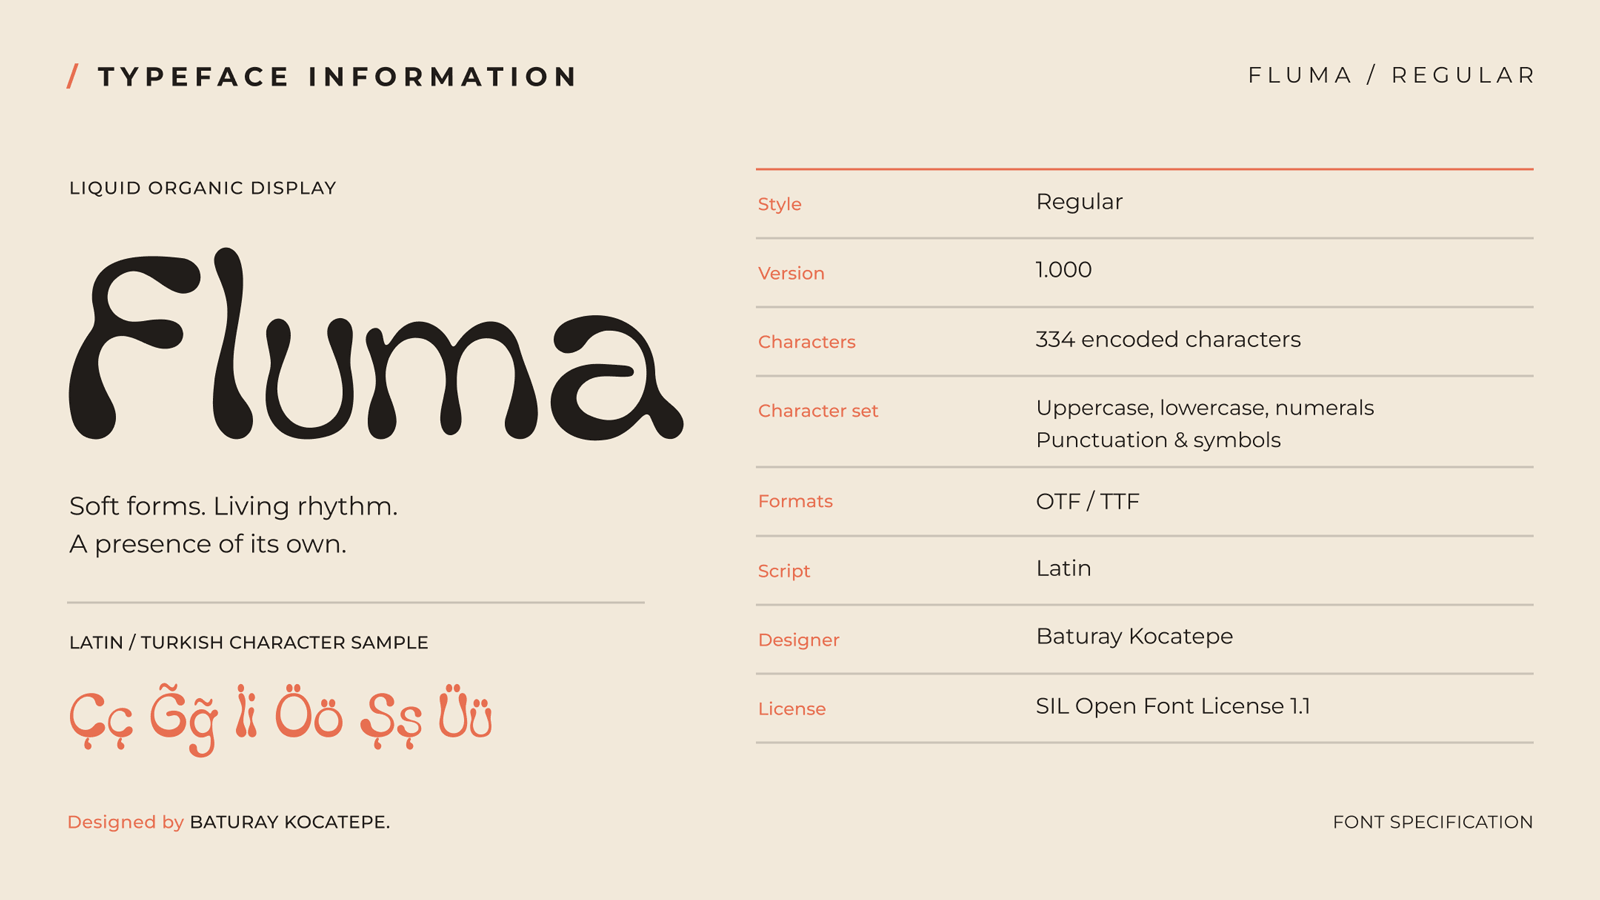
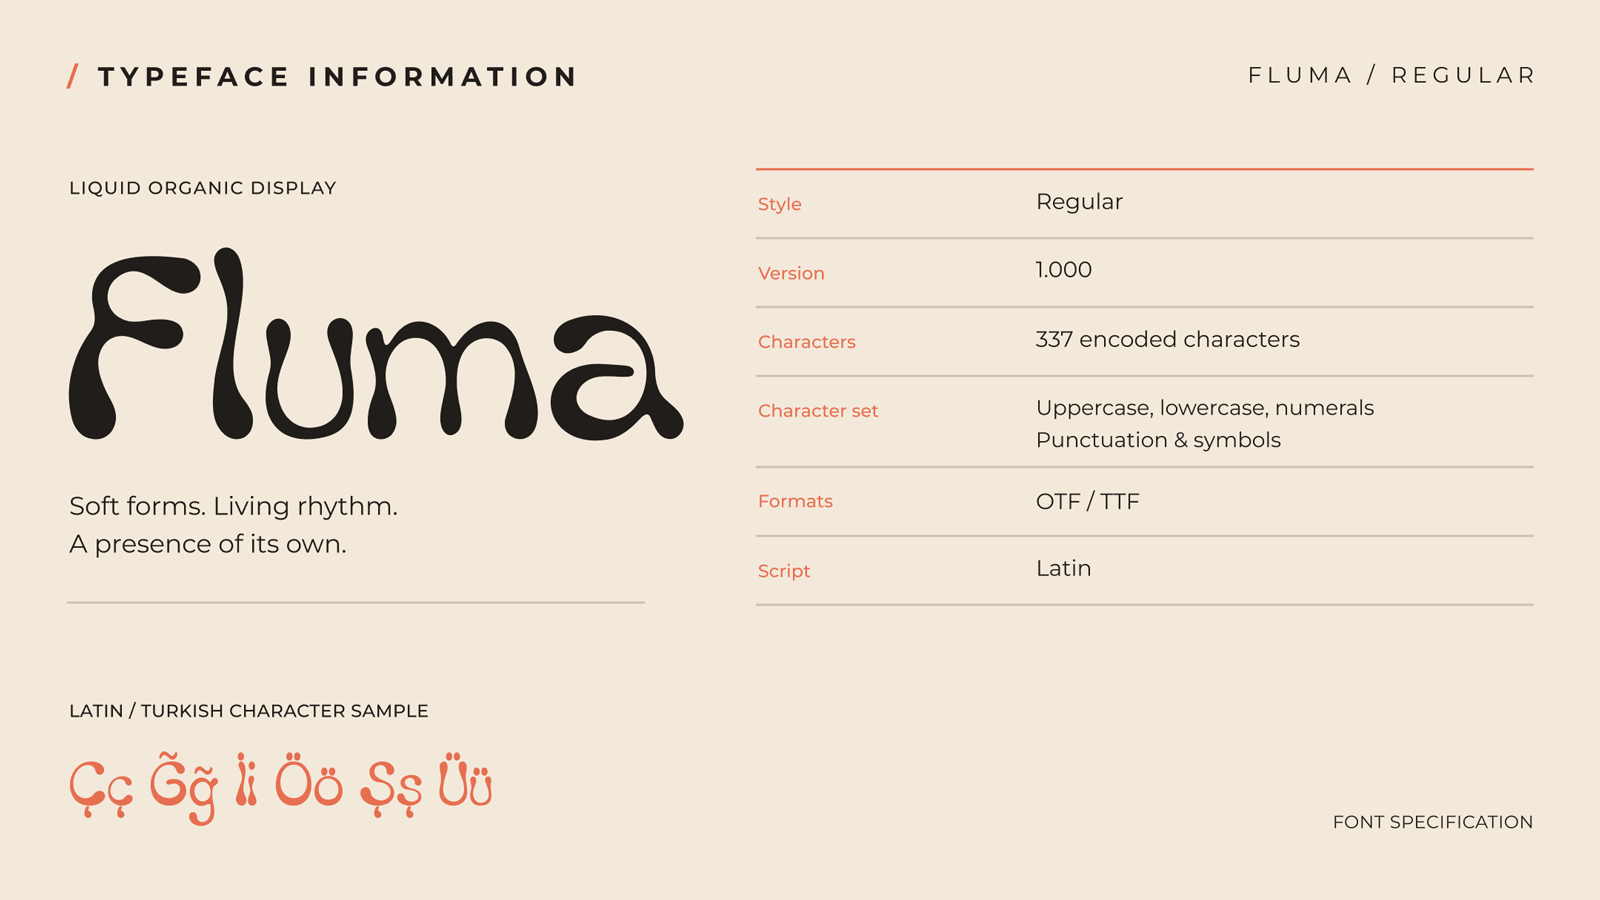
Update specimen pages 19 to 21

diff --git a/documentation/article/ARTICLE.en_us.html b/documentation/article/ARTICLE.en_us.html
@@ -3,7 +3,7 @@
 <p>Fluma gives individual letters distinct silhouettes while maintaining a family resemblance across a word. In the specimen's title setting, heavy terminals sit beside fine, extended connections, and the counters remain open enough to make the large shapes legible. This variation is intentional: the contours are meant to make the written word feel like a continuous composition, rather than a repetition of identical strokes. The font can be used in a single prominent word or in a short line where its rhythm has room to develop.</p>
 <p>Its specimen sequence uses large letterforms, smaller text samples, and character information to show how the Regular style behaves in different arrangements. The images combine the typeface with a translucent sculptural visual language in teal, coral, and pale neutral tones. These compositions illustrate a possible visual identity for Fluma; the font files can also be used independently of the specimen artwork. The pages are presented in sequence so the opening, type examples, information page, and closing retain their intended order.</p>
 <p>The editable project was created in Glyphr Studio. Its source is provided together with a converted UFO and a reproducible build for TTF and OTF files. The build adds positioning for combining marks and substitutions for dotted letters when a top accent is attached. The font software is licensed under the SIL Open Font License, Version 1.1. The specimen images have a separate CC BY-SA 4.0 license.</p>
-<p>The following 22 pages show the current specimen sequence. They were prepared as a connected presentation. Some text on the specimen pages describes an earlier export of the font; the current source and compiled files in the repository are the reference for technical coverage.</p>
+<p>The following 22 pages show the current specimen sequence. They were prepared as a connected presentation. The current source and compiled files in the repository are the reference for technical coverage.</p>
 <figure><img src="specimen1.png" alt="Fluma specimen page 01 of 22" /></figure>
 <figure><img src="specimen2.png" alt="Fluma specimen page 02 of 22" /></figure>
 <figure><img src="specimen3.png" alt="Fluma specimen page 03 of 22" /></figure>

diff --git a/documentation/TECHNICAL_READINESS-2026-09-30.md b/documentation/TECHNICAL_READINESS-2026-09-30.md
@@ -1,6 +1,6 @@
 # FlumaFont technical readiness, 2026-09-30
 
-> **Specimen update, 2026-10-23:** The designer replaced all 22 PNGs in `documentation/article/` with revised 1600 × 900 exports. The font source, binaries, and September QA results did not change. The specimen observations below document the September originals. In the revised set, credits were removed from pages 1, 12, and 22; page 21 still shows the earlier 334 count and an embedded credit, page 19 still says “In Packaging,” and page 20 still says “CAE.” See the [current gallery](SPECIMENS.md).
+> **Specimen update, 2026-10-23:** The designer replaced all 22 PNGs in `documentation/article/` with revised 1600 × 900 exports, then supplied further replacements for pages 19, 20, and 21. The font source, binaries, and September QA results did not change. The specimen observations below document the September originals. In the current set, page 19's top-right label is “Fluma / Regular” and page 21 reports 337 encoded characters with no embedded designer credit. Page 20's lower-right caption still says “CAE COMPARISON.” See the [current gallery](SPECIMENS.md).
 
 ## Verified package
 

diff --git a/documentation/SPECIMENS.md b/documentation/SPECIMENS.md
@@ -82,11 +82,13 @@ These are the 22 current specimen exports supplied by Baturay Kocatepe and updat
 
 ![Fluma specimen 20](article/specimen20.png)
 
+The lower-right caption still reads “CAE COMPARISON” in the supplied artwork. The intended wording appears to be “CASE COMPARISON”; this remains an editorial correction for the designer.
+
 ## Specimen 21
 
 ![Fluma specimen 21](article/specimen21.png)
 
-This page still shows the earlier 334-character export count. The current font maps 337 Unicode codepoints; see the [technical readiness report](TECHNICAL_READINESS-2026-09-30.md). The embedded designer credit is part of the supplied artwork and is pending an editorial correction.
+This updated page reports 337 encoded characters, matching the current font's 337 Unicode codepoints; see the [technical readiness report](TECHNICAL_READINESS-2026-09-30.md).
 
 ## Specimen 22
 
